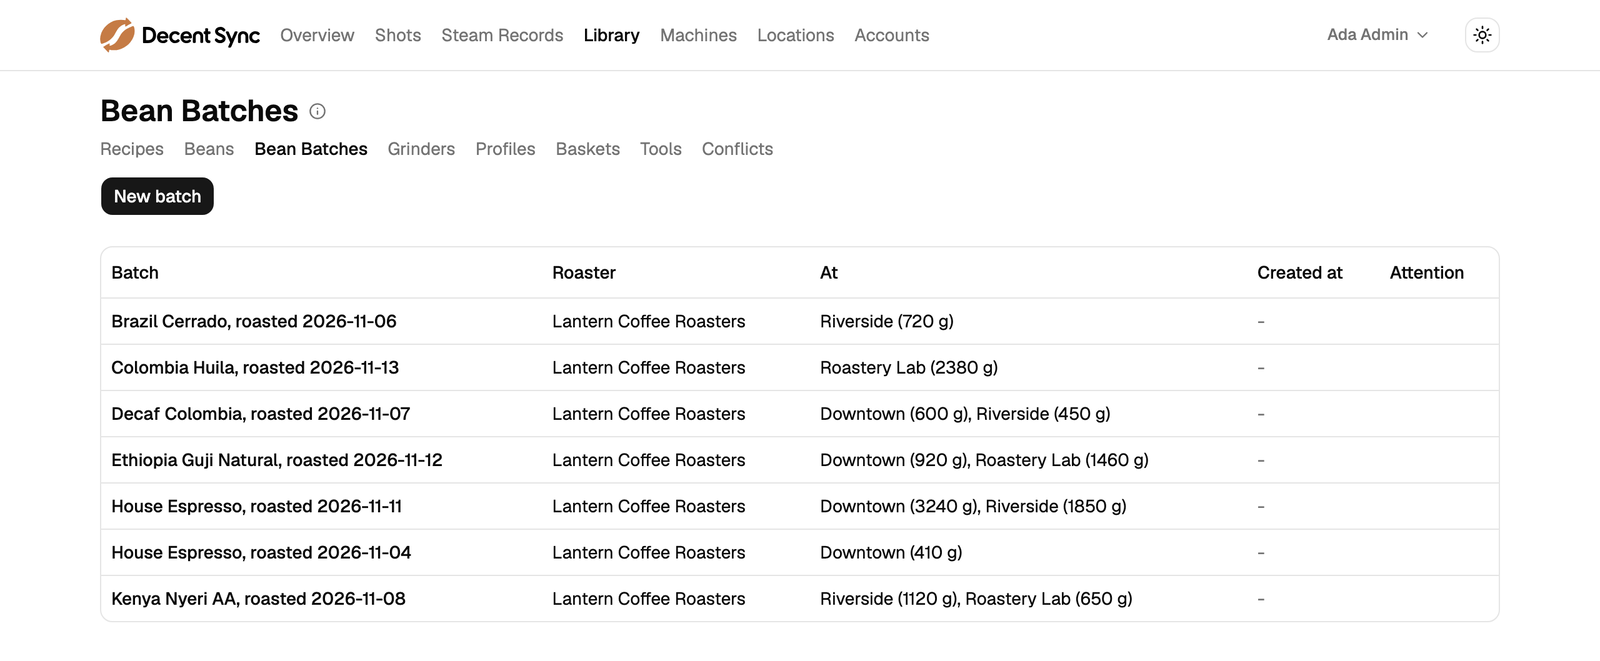
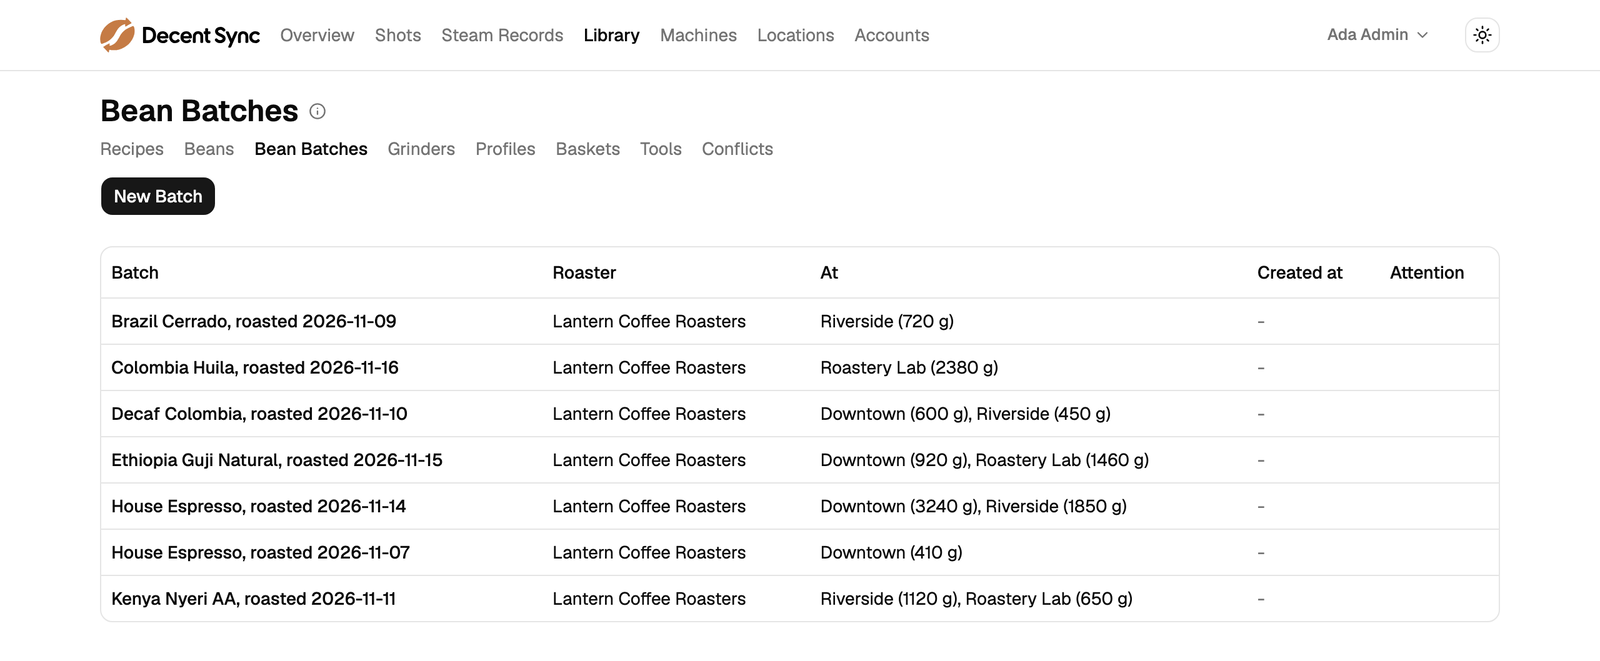
README's Bean Batches image says "New Batch"; Library docs name New Recipe
Regenerates bean-batches-light/dark with `STILLS=bean-batches SKIP_LIVE=1
npm run readme-images`: only the button label and the roast dates, which
follow the run's date, differ. LIBRARY.md says the Recipes tab creates
Recipes, and that the Baskets and Tools lists create theirs too.

diff --git a/docs/LIBRARY.md b/docs/LIBRARY.md
@@ -3193,7 +3193,10 @@ Profile, dose and yield, Grinder and setting, its Reference Shot's
 duration, linked to that Shot, or "No reference", linked to its rated
 Shots, and what needs attention; Archived Recipes show once Show archived
 is ticked, which the address keeps as `archived`. It reads each Location's
-list, and no route was added for it.
+list, and no route was added for it. Its New Recipe (`NewRecipeDialog` in
+`web/src/components/recipes.tsx`) asks for the Location first, of those the
+account may change, choosing it when there is only one, then opens the
+Recipe form a Location's Recipes card creates one with.
 Each item's page notes its open Conflicts, if it has any, and shows how
 many Shots it has, with a link that opens them in the Shots list
 (`web/src/components/item-shots.tsx`), and its history, and the
@@ -3206,8 +3209,8 @@ Machine's page says whether it shares the Library at its Location or is capture-
 switch an Admin turns its sharing off and on with, once they confirm, and
 its sharing status, loaded as often as its own status: the changes waiting
 for its tablet, the last it applied, and those it refused, with Decaid's
-answer (`web/src/components/machine-sharing.tsx`). The Beans, Bean Batches and
-Grinders lists create them, and each item's page edits it, Archives or
+answer (`web/src/components/machine-sharing.tsx`). The Beans, Bean Batches,
+Grinders, Baskets and Tools lists create them, and each item's page edits it, Archives or
 restores it, and, for an Admin, deletes it; a batch's page adds it at each
 Location and finishes it there, and sets its remaining weight there
 (`web/src/components/library-forms.tsx`). A Bean refused as one the Library
